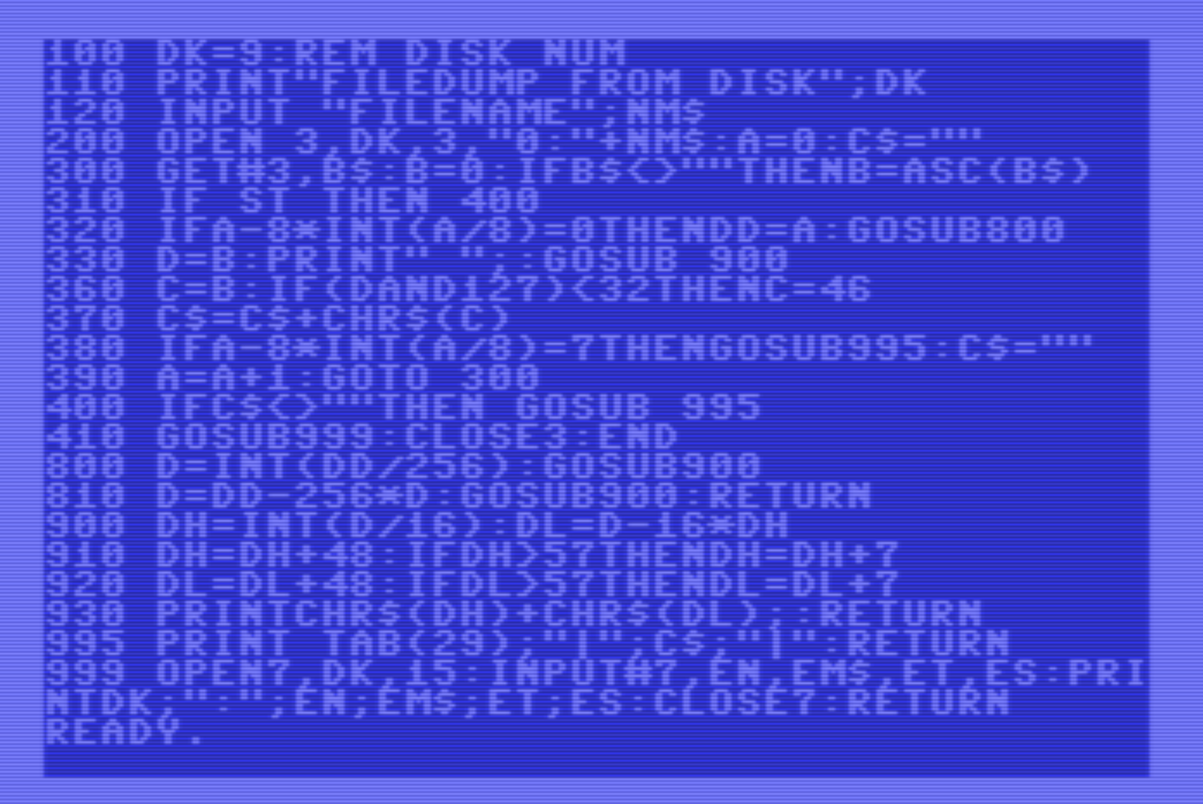
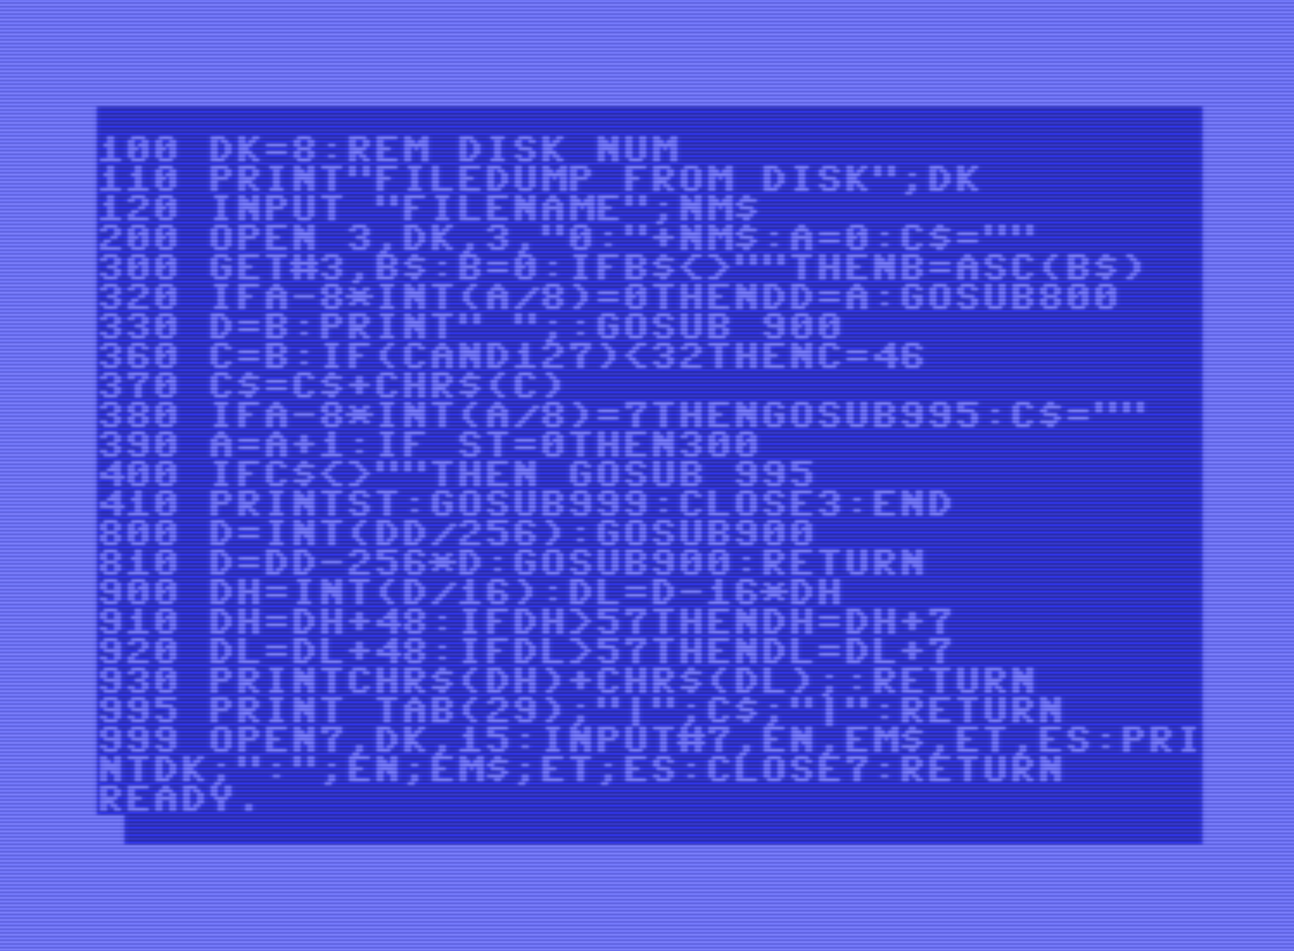
extended file dump

diff --git a/c64drive/readme.md b/c64drive/readme.md
@@ -13,20 +13,21 @@ A drive device has _two_ serial port; they are identical. The other port can be 
 In other words, devices are _daisy chained_ on the serial bus. Every device on the bus has a hardwired (typically with dip switches on that device) _device number_.
 Disk drive device numbers range from 8 up to 15.
 
-Within a drive device - a physical enclosure with an incoming serial port, an outgoing serial port and a set of 
-dip switches that configure a device number, there could be two drive units - a spindle and head and an opening to insert a disk. 
-When sending a command to a drive device, the command string includes a drive number (0 or 1).
-If the drive number is absent, it usually defaults to 0.
+Within a drive _device_ - a physical enclosure with an incoming serial port, an outgoing serial port and a set of 
+dip switches that configure a device number, there could be two drive _units_ - a spindle and head and an opening to insert a disk. 
+When sending a command to a drive device, the command string includes a drive unit id (e.g. 0 or 1).
+If the drive unit id is absent, it usually defaults to 0.
 
 ![Serial bus](drives.drawio.png)
 
-However, in the past maybe there were drive devices with two drive units. But those no longer appear to exist.
+In the past maybe there were drive devices with two drive units. But those no longer appear to exist 
+- or [do they](https://bitbinders.com/products/commodore-1581dv).
 Therefore, in the remainder of this document, we will no longer use the term "drive device" but simply "drive" or "device".
 
 Since a program might have more then one file open on a drive (remember that the disk operating system is in the drive),
-a drive has a so-called secondary address. A secondary address is a virtual communication pipe to that drive.
-One aspects of a secondary address is that it has a 256 byte buffer on the drive; other aspects are pointers 
-to the current track, sector and (byte) offset.
+the drive needs to differentiate between them. This is done with so-called _secondary addresses_. 
+One aspects of a secondary address is that it has a 256 byte buffer on the drive; other aspects 
+associtaed with a secomdary address are pointers to the current track, sector and (byte) offset.
 
 To [open](https://www.c64-wiki.com/wiki/OPEN) a file the following command is given.
 
@@ -38,20 +39,23 @@ This allocates a file handle on the C64 (e.g. a buffer) identified by `<logical_
 The handle is associated with a file on device `<device_number>`, but since there could be more,
 specifically using handle `<secondary_address>` on the drive. 
 
-For example, this opens two sequential files on device 8.
+For example, this opens two sequential files on device 8. The have handles 2 and 3 on the C64 and 5 and 6 on the drive.
 
 ```
 OPEN 2, 8, 5, "FILENAME,SEQ,READ" 
 OPEN 3, 8, 6, "FILENAME,SEQ,WRITE" 
 ```
 
+Yes that is confusing, so you see a lot of programs keeping the two handles equal (`open 15,8,15`).
+
 Three secondary addresses are special:
 - secondary address 0 is dedicated for LOAD; the file type is implicitly PRG and the mode is implicitly READ.
 - secondary address 1 is dedicated for SAVE; the file type is implicitly PRG and the mode is implicitly WRITE.
-- secondary address 15 is not for managing files, rather it allows to give commands to the device.
+- secondary address 15 is not for managing files, rather it allows to give _commands_ to the device.
 
 Device commands are the way the disk operating system is used. As an example, see the following "new" command,
-which formats a disk. It assigns name DISKNAME (maximum of 16 characters) and identifier ID (2 characters) to the disk.
+which formats a disk. It assigns name `DISKNAME` (disk names have a maximum length of 16 characters) and 
+identifier `ID` (disk identifiers are exactly 2 characters) to the disk.
 
 ```
 OPEN 1, 8, 15, "N0:DISKNAME,ID" 
@@ -72,7 +76,50 @@ OPEN 2,8,15:PRINT#2,"M-W";CHR$(119);CHR$(0);CHR$(2);CHR$(devnum+32);CHR$(devnum+
 
 This basic program prints a hex dump of a file.
 
+Lines 100-130 records in `DK` the device number of the disk and inputs in `NM$` the name of the file to dump.
+Line 200 opens the file on (unit 0 in device 8) using 3 as file handle on the C64 and on the drive.
+
 ![filedump](filedump.png)
+
+Statement `GET#3,B$` gets exactly one byte from the file (handle 3) and assigns that to `B$`.
+`B$` has therefore always a length of 1 except when the read byte is 0x00, that doesn't match with basic strings.
+If that happens, `B$` is empty. This special case is repaired on line 300: 
+`B` is the read byte (`B$` or 0x00) after the line is executed.
+
+Line 320 prints the address (in hex) of the row (if address is nr 0 of a block of 8).
+Line 330 prints the read byte (8in hex).
+Line 360 converts byte `B` to printable character `C` or to `.` (char 46) when not printable.
+Those characters are accumulated in `C$` on line 370, which is printed by routine 995, 
+for each complete line (at 380), and for the remaining characters of the last incomplete line (400).
+
+On line 310 `GET` updates `ST`, if it is non-zero in line 390, lines 400 and 410 terminate the program.
+
+The subroutine at line 900 prints (numeric) variable `D` to a _two_ character string 
+with the hex representation of `D`. It uses `DH` and `DL` as scratch variables.
+The subroutine at line 800 prints (numeric) variable `DD` to a _four_ character string 
+with the hex representation of `DD`. It calls 800 twice, so uses `D`, `DH` and `DL` as scratch variables.
+
+The following shows filedump dumping itself.
+
+![filedump](filedump-run.png)
+
+The first two bytes (white: 01 08) is the address where to load this program (0x0801).
+
+The next two bytes (red: 15 08) store the link, the address of the next basic line (0x0815).
+The next two line (green: 64 00) give the line number of the line (0x0064 or 100 dec).
+The line ends at 0814 (file offset 0015, black: 00).
+
+The the next lines starts. Two bytes for the link (red: 0832), two bytes for the line 
+number (green: 006E or 110 dec) the several bytes terminated by a 00 (black, at offset 0032).
+And so on.
+
+The last link (at offset 0222) 00 00, prefixed by the terminating 00 of the last 
+basic line (at offset 0221).
+
+ST is printed on line 410. It prints 64, bit 6 of `ST` indicates 
+[end of file has been reached](https://www.c64-wiki.com/wiki/STATUS).
+I'm a bit puzzled when to check ST, this feels a bit late (we processes the read `B$`), 
+but this way the dump has the correct amount of bytes.
 
 
 ### filecopy
